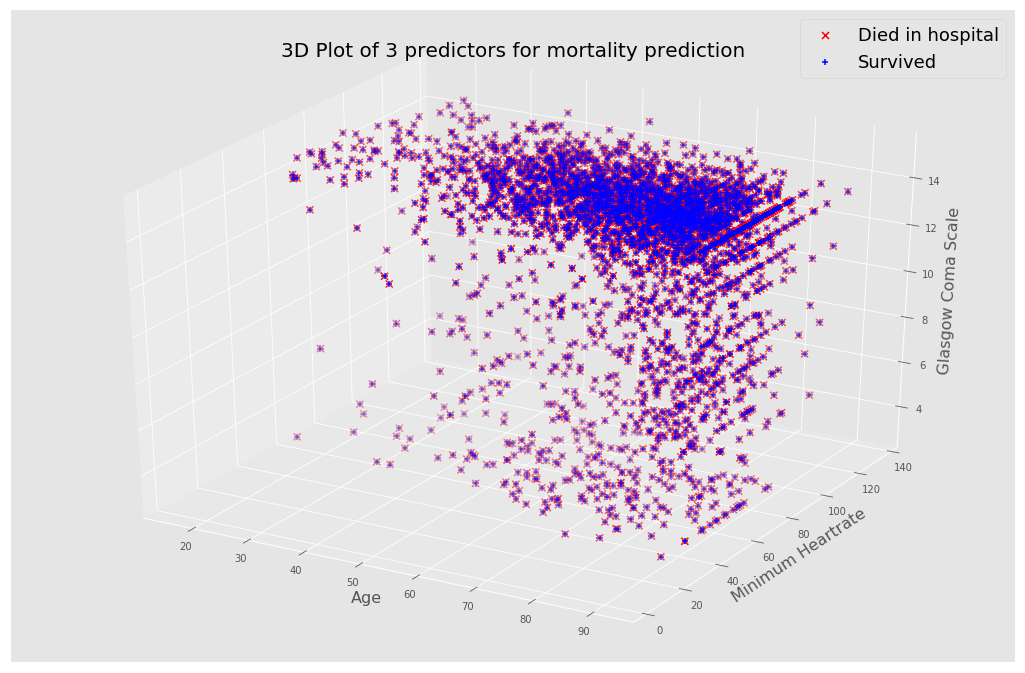
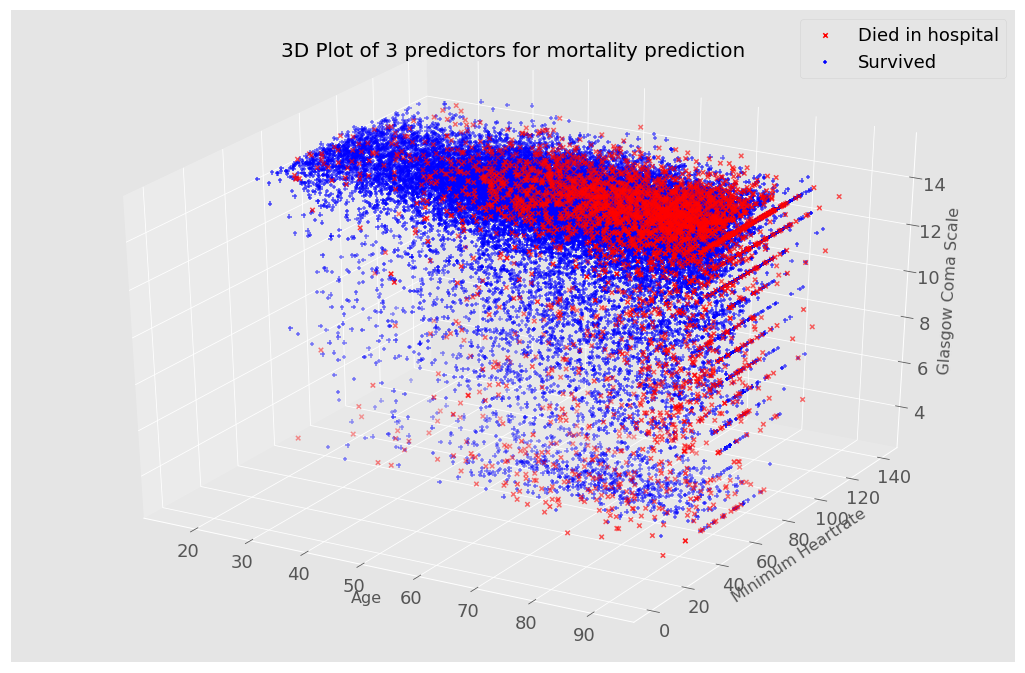
spelling, grammar and clarifications

diff --git a/_posts/2017-06-12-gsoc-week3.md b/_posts/2017-06-12-gsoc-week3.md
@@ -35,7 +35,7 @@ To further inspect the features with respect to hospital mortality, I created a 
 
 ![](/img/week3/3dplot.png "3D plot")
 
-The process for acquiring lab measurements involves acquiring a fluid from the patient's body (e.g. blood from an arterial line or urine from a catheter) and then analyzed in the laboratory. Let's take anion gap as an example of a lab measurement. [Anion gap](https://en.wikipedia.org/wiki/Anion_gap) is the difference between primary measured cations (sodium Na+ and potassium K+) and the primary measured anions (chloride Cl- and bicarbonate HCO3-) in [serum](https://en.wikipedia.org/wiki/Serum_(blood)) (blood). The test is mostly performed in patients with altered mental status, unknown exposures, acute renal failure, and acute illnesses [1]. The plot below shows the aniongap measurement on ICU admission comparison for survival and non-survival groups. A kernel density estimation plot is used to view the distribution of the values.
+Lab measurements are made by acquiring a fluid from the patient's body (e.g. blood from an arterial line or urine from a [catheter](https://en.wikipedia.org/wiki/Catheter)) and then analyzing it in the laboratory. Let's take anion gap as an example of a lab measurement. [Anion gap](https://en.wikipedia.org/wiki/Anion_gap) is the difference between primary measured cations (sodium Na+ and potassium K+) and the primary measured anions (chloride Cl- and bicarbonate HCO3-) in [serum](https://en.wikipedia.org/wiki/Serum_(blood)) (blood). The test is mostly performed in patients with altered mental status, unknown exposures, acute renal failure, and acute illnesses [1]. The plot below shows the aniongap measurement on ICU admission comparison for survival and non-survival groups. A kernel density estimation plot is used to view the distribution of the values.
 
 ![](/img/week3/aniongap-density.png "Anion Gap Density")
 
@@ -75,6 +75,10 @@ Compared to the previous model which achieved a mean AUC of around 70%, the addi
 Additionally, I plotted the [ROC curve](https://en.wikipedia.org/wiki/Receiver_operating_characteristic) for hospital mortality which gives an insight on the sensitivity and specificity of our logistic regression and linear SVM models. The performance of both models are quite similar.
 
 ![](/img/week3/roc-curve.png "ROC Curve")
+
+Finally, a boxplot below shows the variability of the results across all 10 folds.
+
+![](/img/week3/boxplot-mp.png "Boxplot mortality prediction")
 
 For the regression task of predicting the hospital length of stay and ICU length of stay, least square regression and linear ridge regression produced a mean squared error (MSE) of 110.726, which is lower and a slight improvement from the preliminary model performance which had a score of 115.458. The prediction of the ICU length of stay had a much lower MSE in comparison with 34.878 which makes sense because the ICU length of stay has a lower variance in the entire population.
 

diff --git a/_posts/2017-05-26-gsoc-week1.md b/_posts/2017-05-26-gsoc-week1.md
@@ -59,7 +59,7 @@ After the exclusions, up to 48929 observations (almost 80% of samples), which is
 
 ## Feature selection
 
-The MIMIC database holds a lot of information about the patient, with each hospitalization having on average over 230 different types of measurements and over 5700 charted observations for a single patient. For a basic proof of concept, I simply used the general characteristics of the patient like the demographic information, and a few vital sign readings, namely the following:
+The MIMIC database holds a lot of information about the patient, with each hospitalization having on average over 230 different types of measurements and over 5700 charted observations for a single patient. For a basic proof of concept, I simply used the general characteristics of the patient like the demographic information, and a few vital sign readings. The vital signs measurements were made using data from a single time interval which is the entire period of hospital admission.
 
 * Age at the first ICU entry
 * Gender

diff --git a/_posts/2017-06-05-gsoc-week2.md b/_posts/2017-06-05-gsoc-week2.md
@@ -54,7 +54,7 @@ Despite using very basic characteristics, the models for mortality prediction of
 | Linear SVM          | 77.088       |   69.662 |
 | Kernel SVM (RBF)    | 75.734       |   62.891 |
 | Logistic Regression | 77.539       |   69.379 |
-| Random Forest       | 68.974       |   52.059 |
+| Random Guess        | 49.70        |   50.961 |
 
 The same was done for predicting the hospital length of stay. Again, the results with the new query using only the first 24 hours of the ICU stay yield a lower performance.
 
